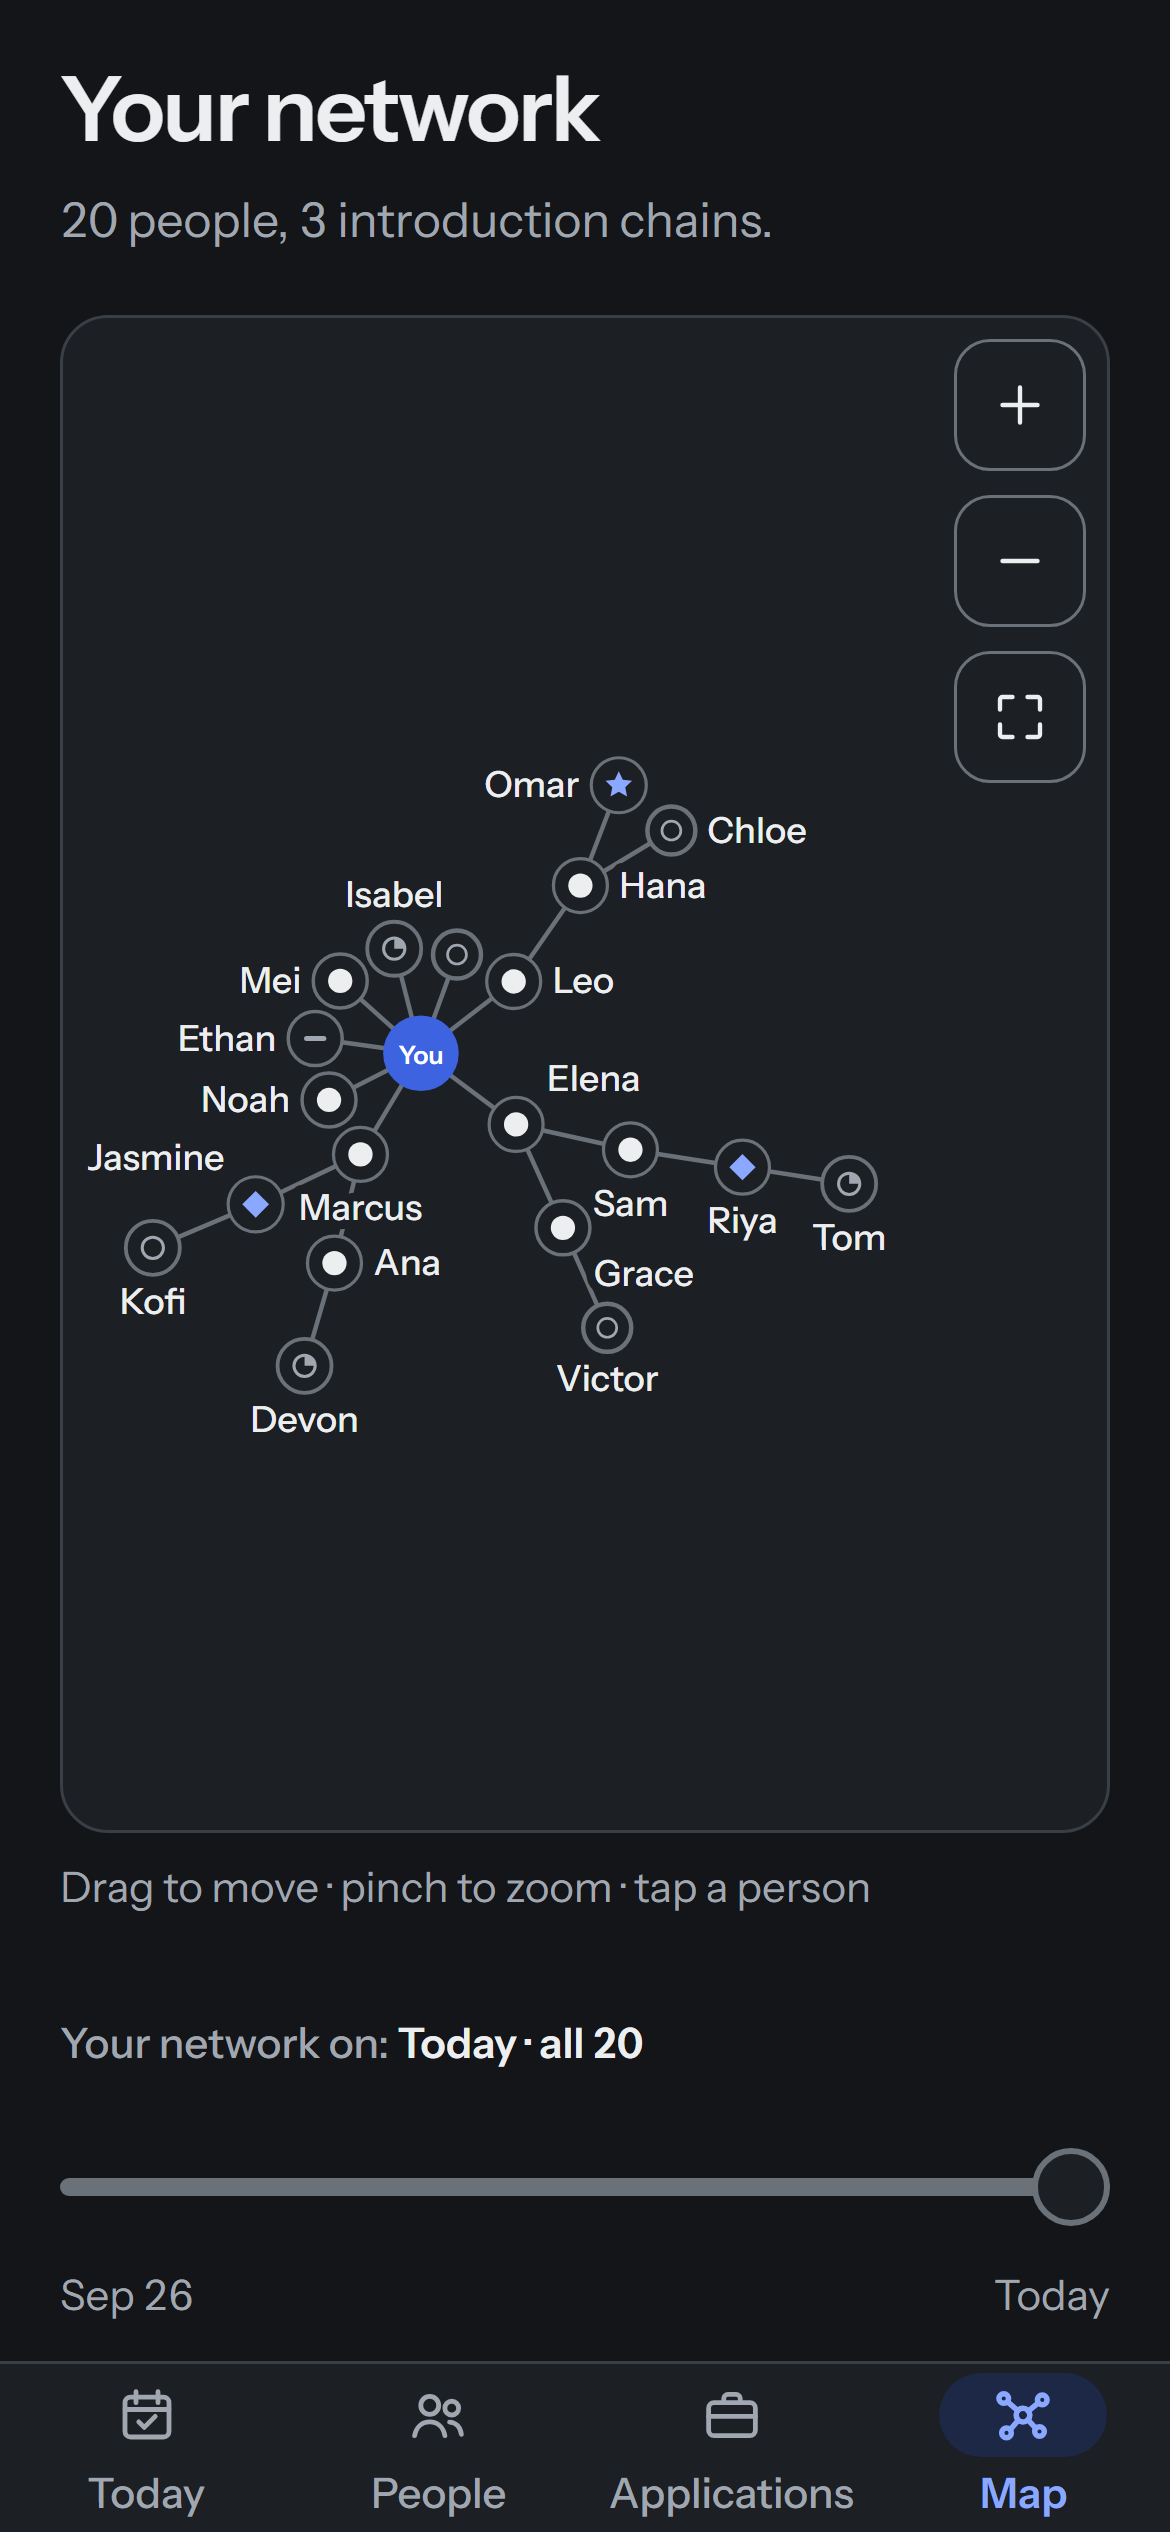
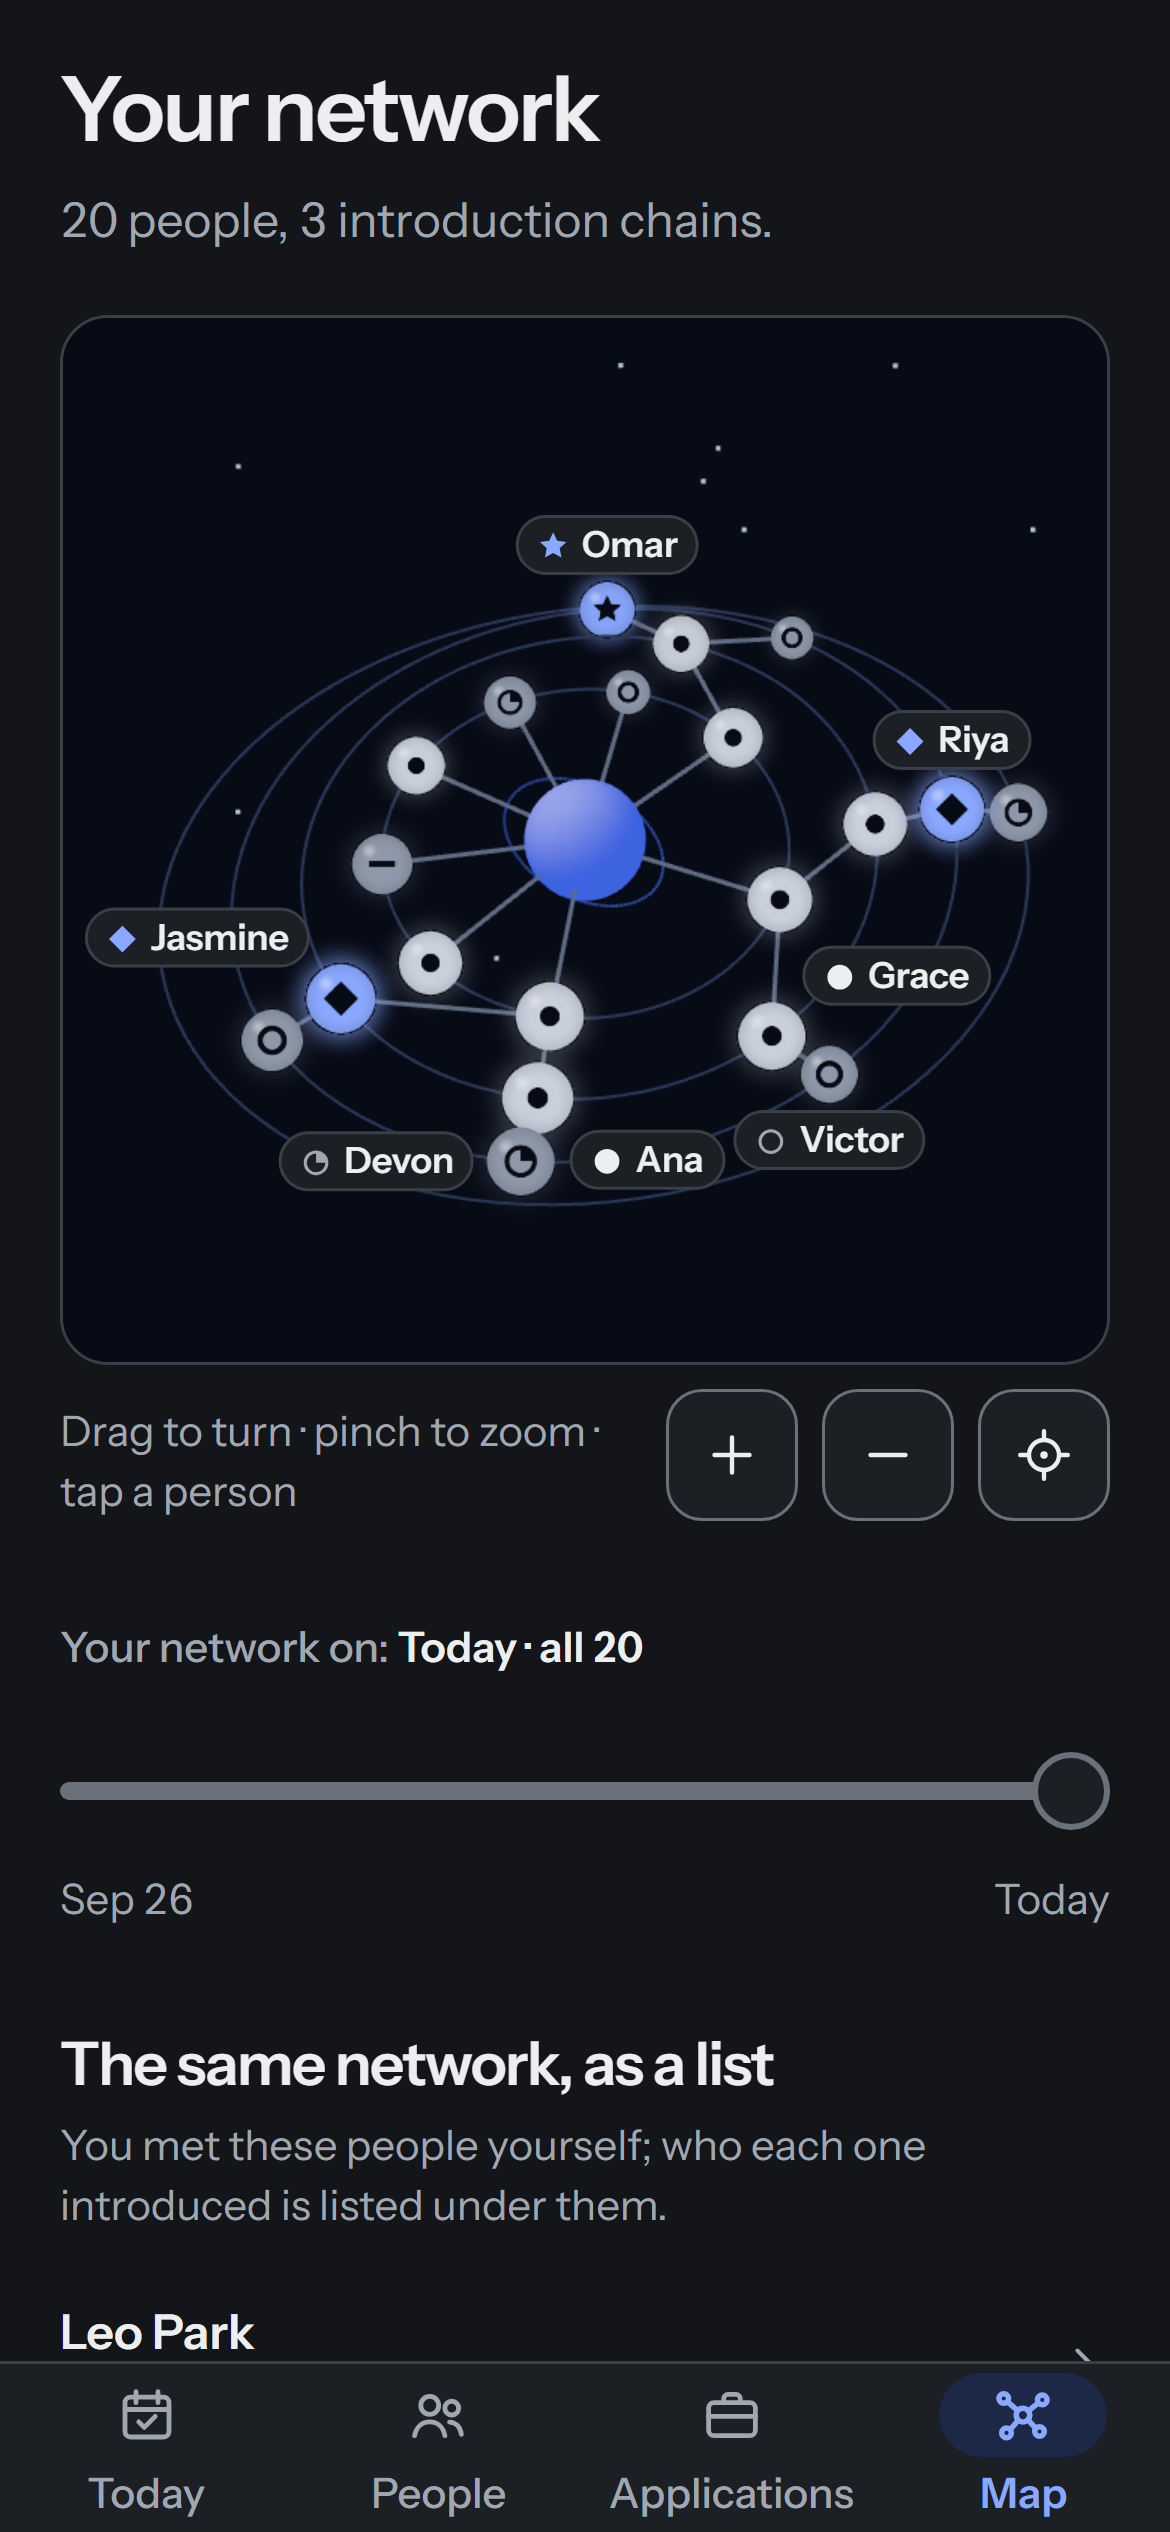
Work: The Climb and the 3D map

diff --git a/content/site.ts b/content/site.ts
@@ -140,22 +140,22 @@ export const ascend = {
   // habit-tracker README.md
   detail: "Hold a habit for 0.65 s to complete it; tap a done one to undo.",
   decision: {
-    title: "Streaks are derived, never stored",
-    // habit-tracker plans/habit-tracker.md, Data rules
-    body: "A stored streak drifts the first time an undo, a delete or a bug touches history.",
+    title: "A climb that never slips",
+    // habit-tracker plans/habit-tracker.md, Feature 10 rules 1-2 and "Consequences" (at most 150 m a day)
+    body: "Altitude is derived from check-ins, like streaks: each day climbs by the share of habits done, up to 150 m, and a missed day never costs any.",
   },
   stats: {
     unitTests: {
-      floor: 370,
-      exact: 379,
+      floor: 500,
+      exact: 516,
       asOf: "2026-11-25",
-      source: "habit-tracker plans/habit-tracker.md, Reviews, Feature 8b (379 unit and database tests)",
+      source: "habit-tracker plans/habit-tracker.md, Reviews, Feature 10 final checks (516 unit and database tests)",
     },
     browserTests: {
-      floor: 70,
-      exact: 77,
+      floor: 90,
+      exact: 90,
       asOf: "2026-11-25",
-      source: "habit-tracker plans/habit-tracker.md, Reviews, Feature 8b (77 browser tests)",
+      source: "habit-tracker plans/habit-tracker.md, Reviews, Feature 10 final checks (browser suite: 90 passed)",
     },
     findings: {
       floor: 260,
@@ -172,8 +172,8 @@ export const orbit = {
   oneLiner: "A personal CRM for an internship search, with a map of who introduced you to whom.",
   decision: {
     title: "A map that stays put",
-    // network-crm plans/crm.md, Feature 5 plan (paraphrased: the source says "on one device")
-    body: "The map is a radial tree settled by a short physics run, so adding someone mostly moves only their branch.",
+    // network-crm plans/crm.md, Feature 7 plan, Angles ("Pure and deterministic, no force run")
+    body: "Each ring is an introduction depth and each person sits at their branch's angle, with no physics run, so the same network always draws the same way.",
   },
   stats: {
     unitTests: {

diff --git a/components/work.tsx b/components/work.tsx
@@ -125,7 +125,7 @@ export function Work() {
             <Phone>
               <ScreenLayer
                 image={ascendScreen}
-                alt="Ascend's Today screen: two habits done in orange, Read 10 pages part-way through a hold."
+                alt="Ascend's Today screen: the pixel-art Climb strip, Altitude 7,113 m · Above the clouds, above the habit keys."
                 sizes="300px"
               />
             </Phone>
@@ -156,7 +156,7 @@ export function Work() {
             <Phone>
               <ScreenLayer
                 image={orbitScreen}
-                alt="Orbit's network map: you in the centre, 20 people in three introduction chains."
+                alt="Orbit's 3D map: me as a planet in the centre, with people on tilted rings by introduction depth."
                 sizes="300px"
               />
             </Phone>

diff --git a/plans/portfolio.md b/plans/portfolio.md
@@ -48,18 +48,18 @@ Floors are what the site shows; exact values are what the logs said on 2026-11-2
 ### Ascend (`~/Documents/habit-tracker`)
 - "A habit tracker you press like a physical key." (`CLAUDE.md:5`, `DESIGN.md:3`). Hold a key for 0.65 s to complete a habit; tap a done key to undo (`README.md`).
 - Live: https://ascend-dk.vercel.app.
-- **370+ unit and database tests, 70+ browser tests** (379 and 77 at Feature 8b, `plans/habit-tracker.md` Reviews).
+- **500+ unit and database tests, 90+ browser tests** (516 and 90 at Feature 10, `plans/habit-tracker.md` Reviews; 379 and 77 at Feature 8b before that).
 - **260+ review findings** (268 by the fact agent's count, 285 by Claude's parser, both of committed HEAD; Reviews log).
-- Decision: streaks are derived, never stored: "A stored streak drifts the first time an undo, a delete or a bug touches history" (plan, Data rules).
-- Screens: `docs/screenshots/feature-3/today-mid-hold-{dark,light}.png`. Feature 9 (a font change) will retake them; swap the files when it lands.
+- Decision (round 4): the Climb never slips: altitude is derived from check-ins like streaks, each day climbs by the share of habits done, up to 150 m, and a missed day never costs any (plan, Feature 10). Before: "Streaks are derived, never stored".
+- Screens: `docs/screenshots/feature-10/today-{dark,light}.png` (Today with The Climb strip; round 4).
 
 ### Orbit (`~/Documents/network-crm`)
 - "A personal CRM for an internship search: the people you meet, who introduced you to whom, what you talked about, when to follow up, and every application, with a map of your network at the centre." (`README.md:3-5`)
 - Live: https://orbit-dk.vercel.app.
 - **500+ unit tests** (527 after Feature 5, `plans/crm.md` Feature 5 review; no later count recorded).
 - **230+ review findings** (233 at committed HEAD; the logic-checker counted 246 including an uncommitted second round).
-- Decision (paraphrased, no quote marks): the map is a radial tree settled by a short force run, so adding someone mostly moves only their branch (`plans/crm.md`, Feature 5 plan).
-- Screens: `docs/screenshots/feature-5/map-{dark,light}.png`.
+- Decision (paraphrased, no quote marks; round 4): each ring is an introduction depth and each person sits at their branch's angle, with no physics run, so the same network always draws the same way (`plans/crm.md`, Feature 7 plan, Angles). Before: the Feature 5 radial tree settled by a short force run.
+- Screens: `docs/screenshots/feature-7/map-{dark,light}.png` (the 3D map; round 4).
 - **Do not quote** the plan's "Why" section (it names a contact).
 
 ### Across Ascend and Orbit (the three-agent workflow)
@@ -189,11 +189,11 @@ This section is the bar for the design-critic and the finish review.
   Undo timer"), actions "Try the live demo ↗", "Code on GitHub ↗" (case study once it
   exists). Media: the full tour (`bitewise-tour-{dark,light}.mp4`, ~2.4 MB) in a phone,
   source set only when the tile is near the viewport, same play rules and pause button.
-- **Ascend** (persimmon field): name, one-liner, the mid-hold screen, the decision "Streaks are
-  derived, never stored", facts (370+ unit and database tests · 70+ browser tests · 260+
+- **Ascend** (persimmon field): name, one-liner, Today with The Climb strip, the decision "A
+  climb that never slips", facts (500+ unit and database tests · 90+ browser tests · 260+
   review findings), "Open Ascend ↗".
 - **Orbit** (blue field): name, "A personal CRM for an internship search, with a map of who
-  introduced you to whom.", the map screen, the decision (paraphrased), facts (500+ unit
+  introduced you to whom.", the 3D map screen, the decision (paraphrased), facts (500+ unit
   tests · 230+ review findings), "Open Orbit ↗".
 - Each action is its own link (no whole-tile link). Hover lifts the media 2 px.
 
@@ -206,7 +206,7 @@ This section is the bar for the design-critic and the finish review.
   - Plan: "Written up in `plans/*.md` before any code."
   - logic-checker: "Walks the plan step by step, hunting edge cases." 180+ findings in 15+
     plan reviews.
-  - Build: "Claude Code builds it, with tests." 370+ unit and 70+ browser tests on Ascend.
+  - Build: "Claude Code builds it, with tests." 500+ unit and 90+ browser tests on Ascend.
   - code-reviewer: "Reads the diff for bugs, security and accessibility." 140+ findings.
   - design-critic: "Judges screenshots at phone size, light and dark." 160+ findings.
   - Phone check: "A written checklist for a real phone." (no number, no claim it ran)
@@ -333,6 +333,19 @@ remove Niagara Parks, the Unity racing game and the Spotify display. Round 3: ke
    says "I design, build and test every part myself". A no-break space keeps "I" with
    "design" at 390 px. Checked at 390 and 1440, light and dark: two-line headline at both.
 
+## Round 4: new Ascend and Orbit screens (2026-11-25)
+
+Dani's brief: `~/Documents/claude-inbox/portfolio/01-new-ascend-orbit-images.md`.
+1. **New screenshots** (Dani): Ascend's Today with The Climb strip (habit-tracker Feature 10)
+   and Orbit's 3D map (network-crm Feature 7), light and dark; `SOURCES.md` updated.
+2. **Alt text** for both now describes what they show.
+3. **Decisions**: Ascend's becomes "A climb that never slips" (Feature 10 rules); Orbit's keeps
+   its title but now describes the 3D layout (no physics run), since the 3D map has no force run.
+4. **Ascend's test counts** from the Feature 10 log: 516 unit and database tests (500+), 90
+   browser tests (90+), on the tile and in How I build. Orbit's Feature 7 log records no new
+   totals, so its 500+ stays. Review-finding totals weren't recounted: the floors are still
+   true lower bounds.
+
 ## Reviews
 
 ### Plan review, logic-checker (2026-11-25)
@@ -452,3 +465,6 @@ Verdict: **Ship after fixes**. Removals are clean; Work and About hold without t
 - Copied Impeccable's shipped agents (finish reviewer, documenter and three more) from `network-crm` into `.claude/agents/`, same version (0.1.27), so later sessions can use them.
 - Left CLAUDE.md exactly as Dani wrote it, though its video path (`staple-loop-dark.mp4`) is now `bitewise-loop-dark.mp4` in the Bitewise repo, and it doesn't import the Next.js `AGENTS.md` the way the other repos do.
 - Deferred the `light-dark()` fallback for iOS 16 (open question 5).
+- Round 4: replaced Ascend's decision ("Streaks are derived, never stored") with the Climb line over keeping both, because a tile shows one decision and the new screenshot shows the Climb; the line still says altitude is derived "like streaks".
+- Round 4: raised Ascend's test floors to 500+ and 90+ from the Feature 10 log (516 and 90), over leaving 370+ and 70+, since both counts are logged exactly; review-finding totals stay as true lower bounds (not recounted).
+- Round 4: embedded each new screenshot's origin (the source file in habit-tracker or network-crm) and checked they're pixel-identical to those files.

diff --git a/public/media/SOURCES.md b/public/media/SOURCES.md
@@ -12,7 +12,7 @@ an embedded text chunk (`impeccable embed-prompt --read <file>`).
 | `bitewise-swap-{dark,light}.png` | Frames at 25.3 s (dark tour) and 24.8 s (light tour) |
 | `bitewise-scan.png` | Frame at 62.1 s of `bitewise-demo-light-real-scan.mp4` (the Nov 25 re-recording): a real iPhone barcode scan, used in both themes |
 | `bitewise-cost-{dark,light}.png` | Frames at 53.6 s (dark tour) and 53.7 s (light tour) |
-| `ascend-today-{dark,light}.png` | `habit-tracker/docs/screenshots/feature-3/today-mid-hold-*.png` (Playwright, 390 × 844 @3) |
-| `orbit-map-{dark,light}.png` | `network-crm/docs/screenshots/feature-5/map-*.png` (Playwright, 390 × 844 @3) |
+| `ascend-today-{dark,light}.png` | `habit-tracker/docs/screenshots/feature-10/today-*.png`: Today with The Climb strip (Playwright, 390 × 844 @3) |
+| `orbit-map-{dark,light}.png` | `network-crm/docs/screenshots/feature-7/map-*.png`: the 3D map (Playwright, 390 × 844 @3) |
 
 All numbers and names visible in the screenshots are the apps' demo data.
